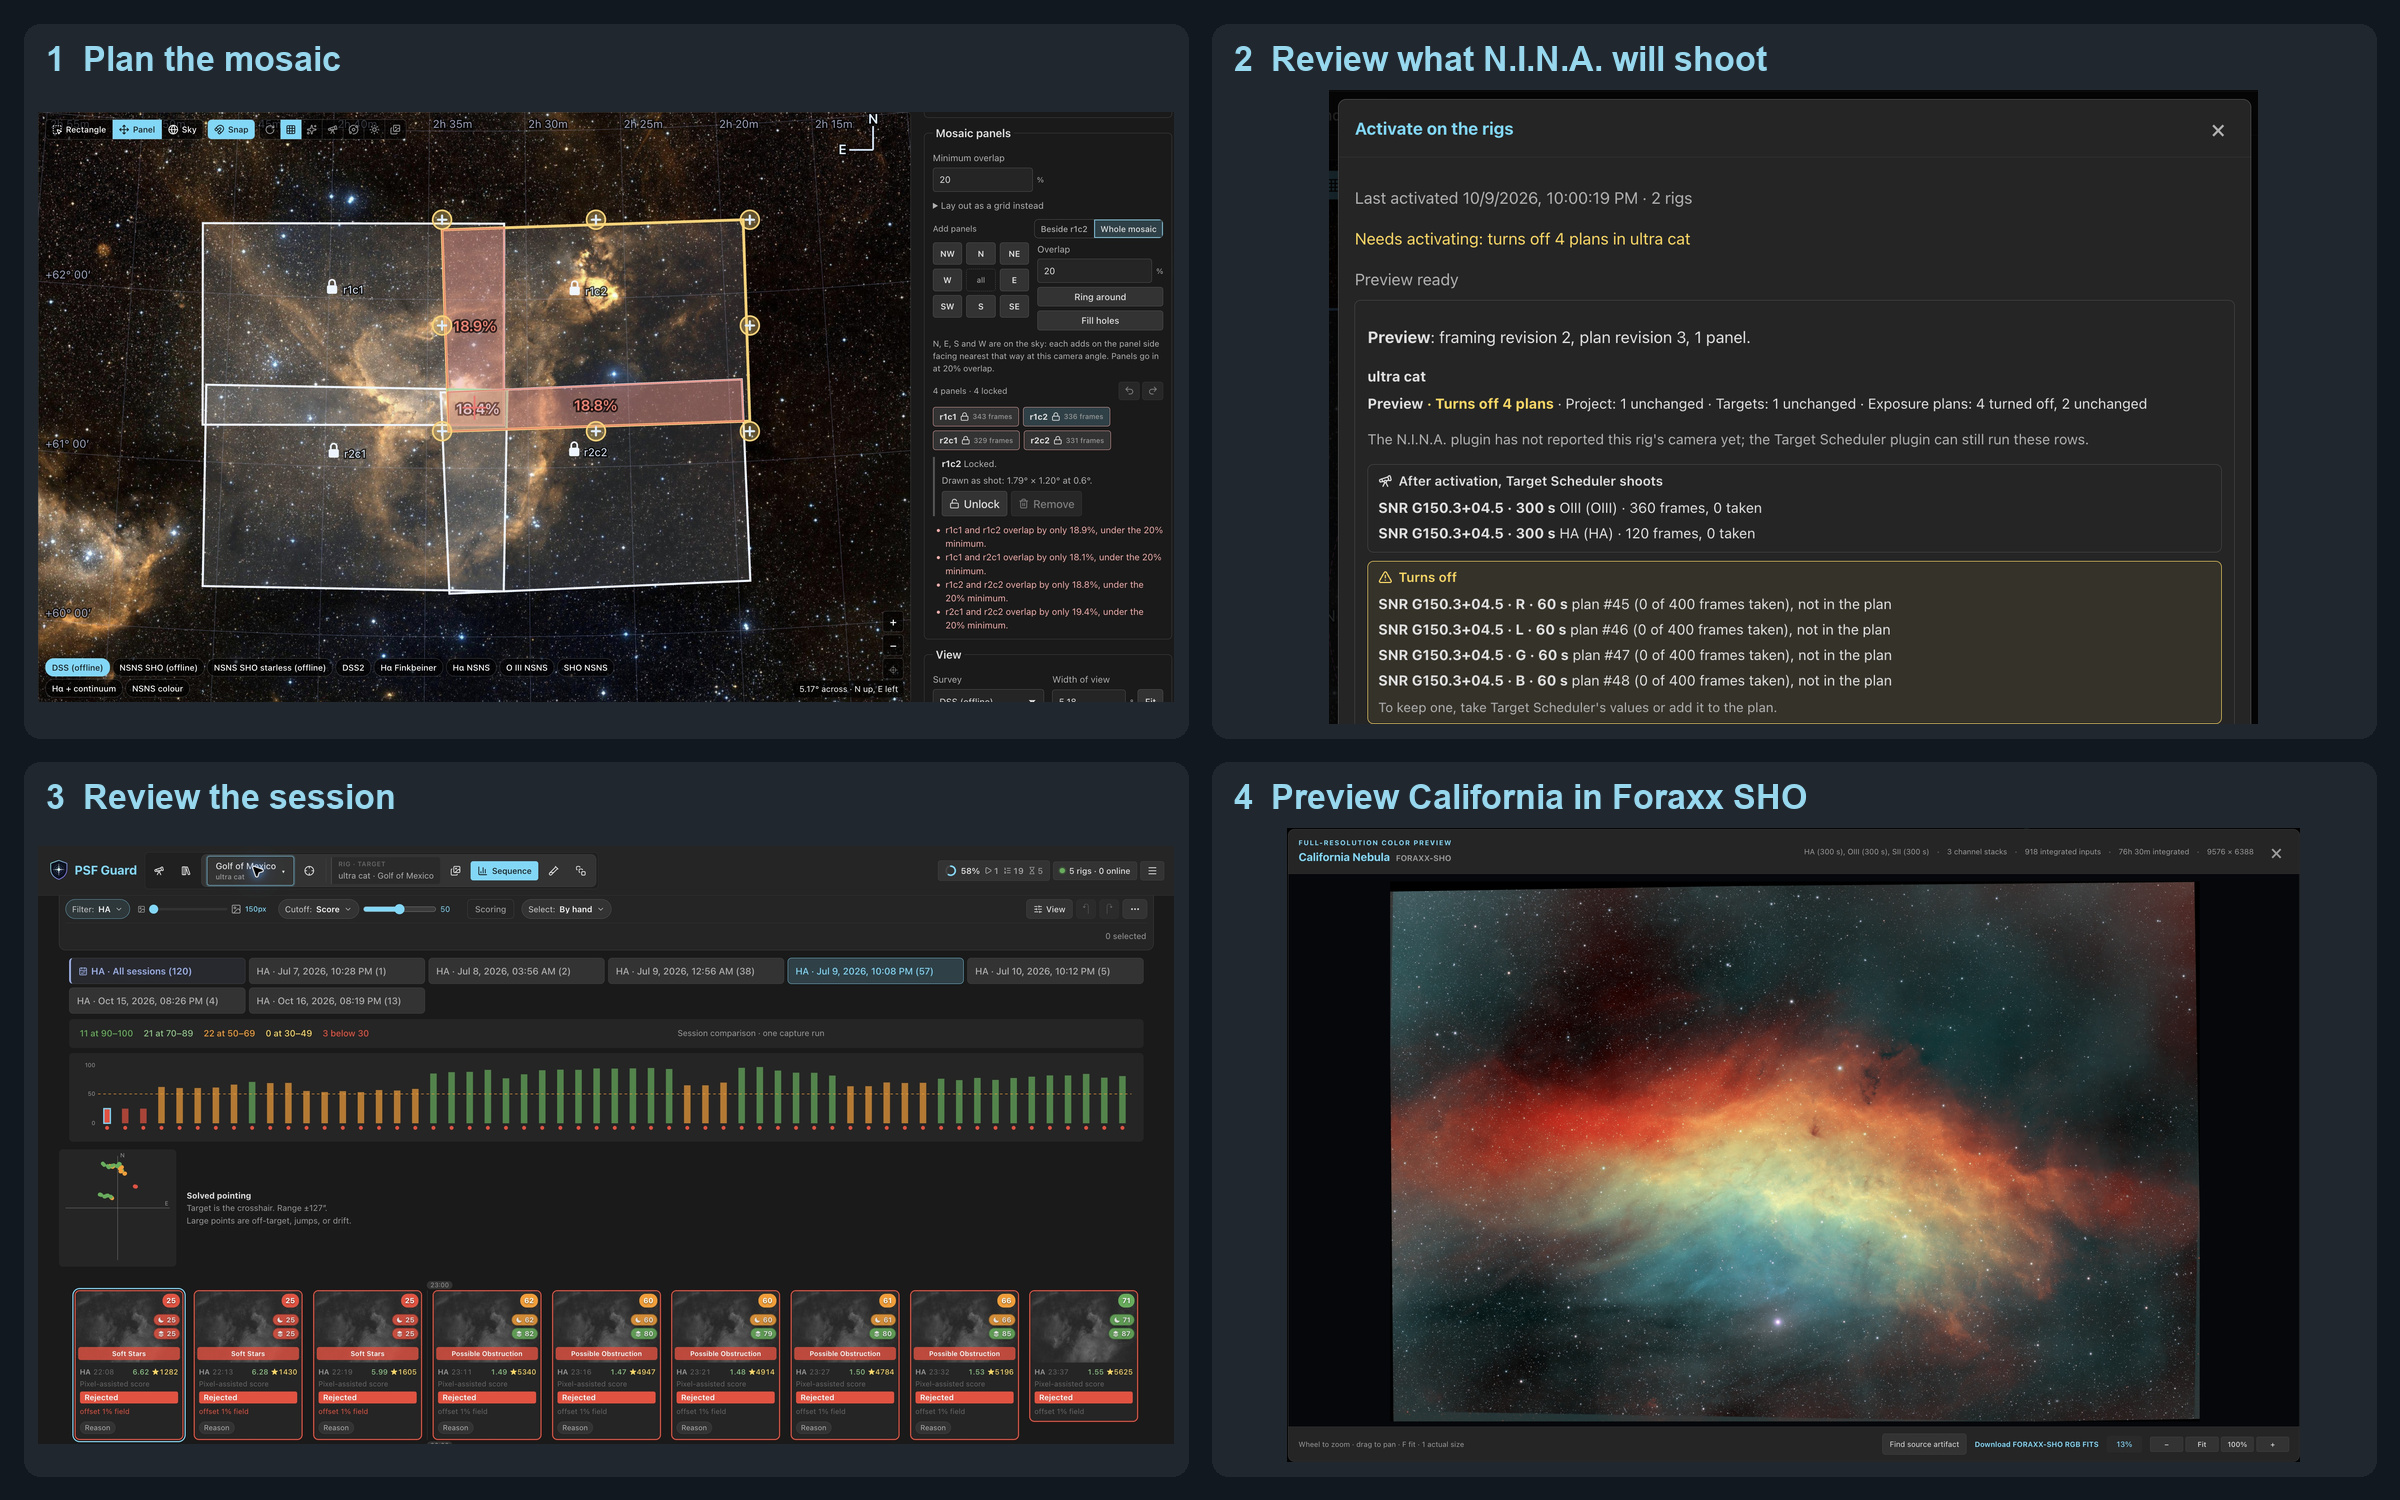
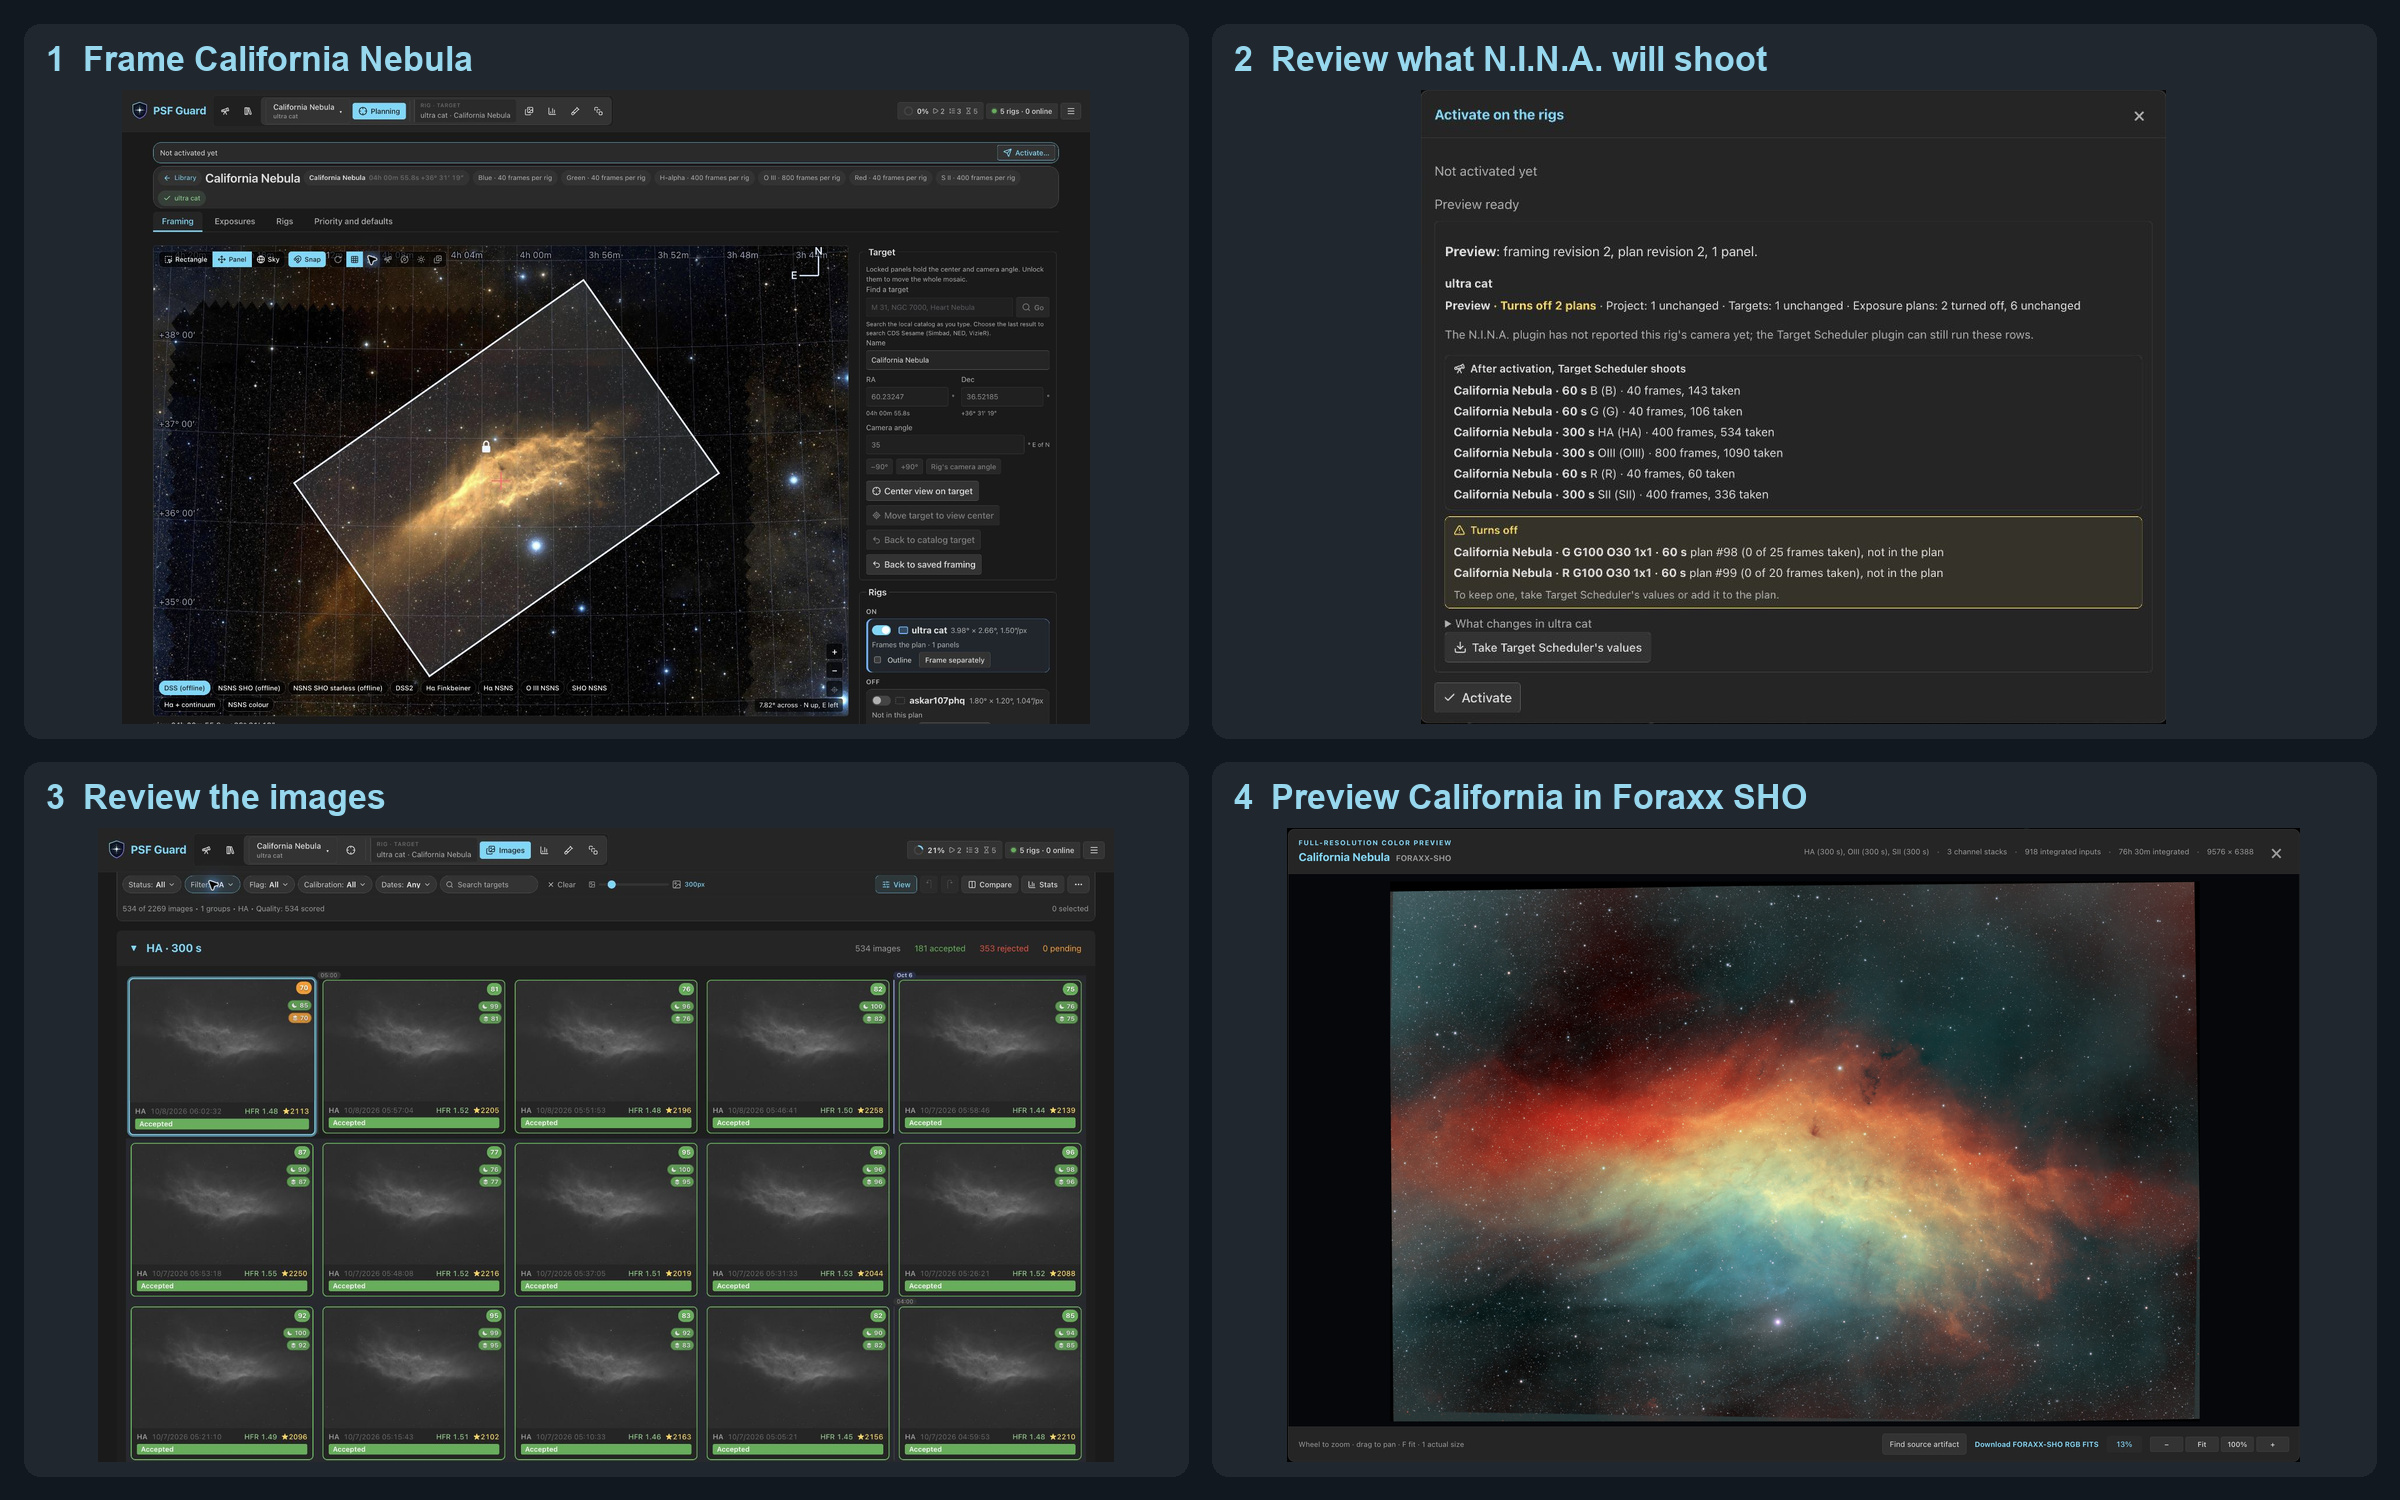
Use California throughout the homepage workflow hero

diff --git a/index.html b/index.html
@@ -98,8 +98,8 @@ function gtag_report_demo() {
     </div>
   </div>
   <figure class="hero-shot">
-    <img src="assets/hero-flow.jpg" alt="Four PSF Guard examples: Heart Mosaic framing, SNRG150 activation preview, Golf of Mexico session review, and the California Nebula Foraxx SHO stack" width="2400" height="1500">
-    <figcaption>Four examples: plan a mosaic, review what N.I.N.A. will shoot, grade a session, and preview a color stack.</figcaption>
+    <img src="assets/hero-flow.jpg" alt="California Nebula in PSF Guard: framing, activation preview, H-alpha image review, and the Foraxx SHO color stack" width="2400" height="1500">
+    <figcaption>California Nebula: frame the target, review what N.I.N.A. will shoot, review the images, and preview the color stack.</figcaption>
   </figure>
 </section>
 

diff --git a/scripts/screenshot-hero.py b/scripts/screenshot-hero.py
@@ -1,17 +1,17 @@
 #!/usr/bin/env python3
 """Render the homepage collage from recorded UI captures (requires Pillow).
 
-Keep source pixels unchanged apart from scaling. The activation crop shows the
-first rig's preview and its complete warning; the second rig remains in the guide.
+Keep source pixels unchanged apart from scaling. The grid crop removes a
+partial row at the bottom; the activation dialog remains complete.
 """
 from pathlib import Path
 from PIL import Image, ImageDraw, ImageFont, ImageOps
 
 root = Path(__file__).resolve().parents[1]
 shots = [
-    ('1  Plan the mosaic', 'release-012-mosaic-editing.jpg', None),
-    ('2  Review what N.I.N.A. will shoot', 'activation-preview.png', (0, 0, 1642, 1120)),
-    ('3  Review the session', 'sequence-session.jpg', None),
+    ('1  Frame California Nebula', 'hero-california-planning.jpg', None),
+    ('2  Review what N.I.N.A. will shoot', 'hero-california-activation.jpg', (424, 190, 1320, 953)),
+    ('3  Review the images', 'hero-california-grid.jpg', (0, 0, 1744, 1088)),
     ('4  Preview California in Foraxx SHO', 'stack-foraxx-california.jpg', None),
 ]
 canvas = Image.new('RGB', (2400, 1500), '#111820')

diff --git a/assets/screenshot-captures.md b/assets/screenshot-captures.md
@@ -1632,3 +1632,30 @@ overview and portrait color card. The four steps remain in reading order.
   sources have no loading placeholders. Detailed UI text belongs in the guides;
   the hero shows the four tasks and their results.
[1 lines of base64/hex data omitted]
+
+## California hero captures — October 17, 2026
+
+Captured in Chrome from https://psf-guard.atpn.co, ultra cat, database
+`db-e075b4ec`, project 4. All four hero panels now show California Nebula.
+The existing Foraxx SHO capture remains the fourth panel.
+
+- `hero-california-planning.jpg`: Framing, DSS (offline), 7.82° view,
+  equatorial grid on, constellation and deep-sky marks off. One locked panel
+  at 35°; plan state Not activated yet. No framing edits or saves.
+  URL: https://psf-guard.atpn.co/#/plan?dbfilter=db-e075b4ec&db=db-e075b4ec&project=4&plan=b7be7938-7c29-4926-a794-43a98494f680
+- `hero-california-activation.jpg`: open Activate… and wait for Preview ready.
+  Capture the full dialog: six exposure plans unchanged, two turned off in the
+  preview. The warning and Activate button remain visible. Closed without applying.
+- `hero-california-grid.jpg`: Images, HA filter, 300 px cards, newest first,
+  all statuses. 534 HA frames: 181 accepted, 353 rejected. Visible cards show
+  accepted frames with scores; no grades changed.
+  URL: https://psf-guard.atpn.co/#/grid?dbfilter=db-e075b4ec&db=db-e075b4ec&project=4&current=17122&filter=HA&size=300
+- Reshoot through those views, then run `scripts/screenshot-hero.py`. The hero
+  crops the grid at y=1088 to omit a partial row; the activation crop (424, 190) to (1320, 953) includes the full dialog.
+  Both standalone captures retain the full browser viewport. Other sources fit
+  without cropping.
+- All three browser captures and the rebuilt collage were checked visually.
[4 lines of base64/hex data omitted]
